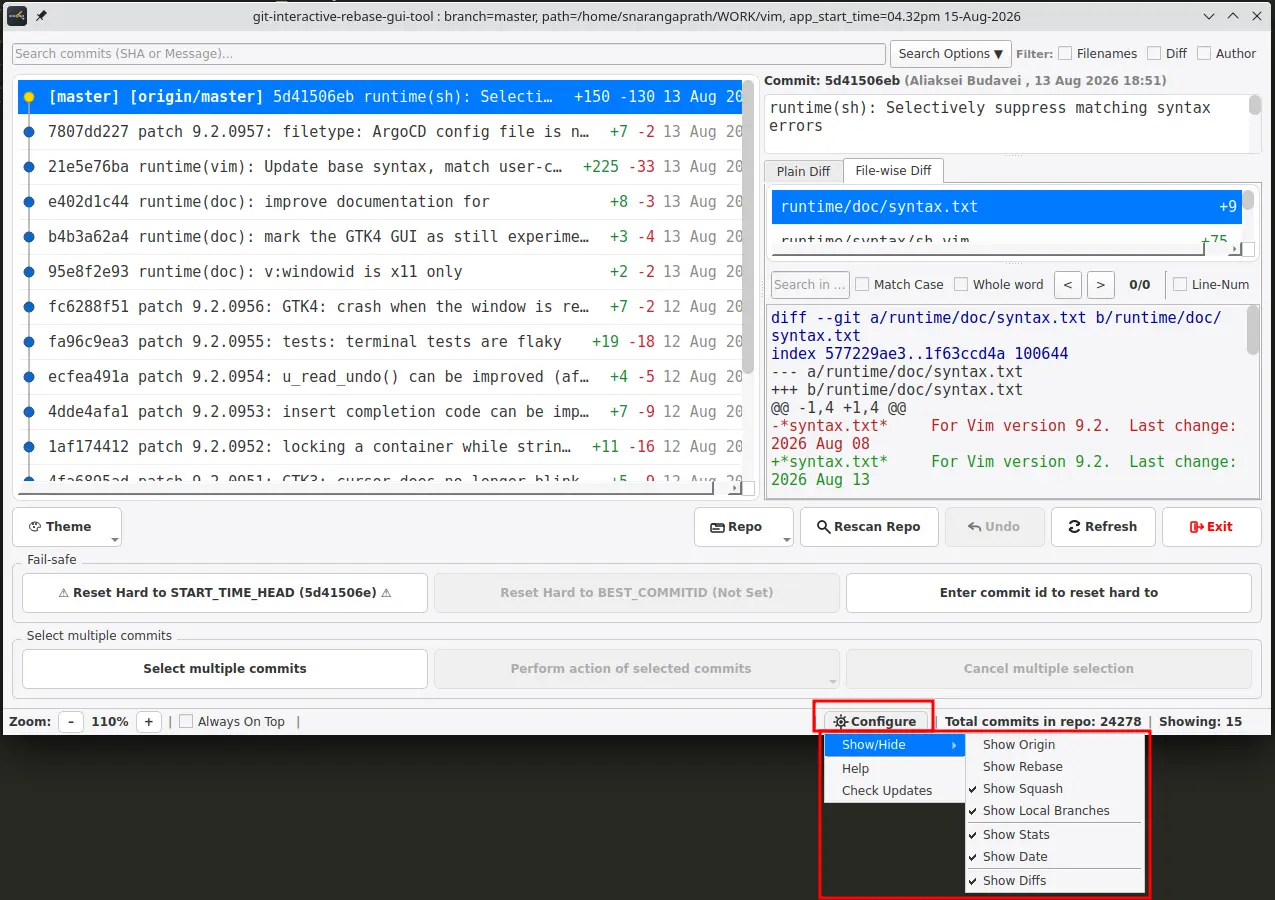
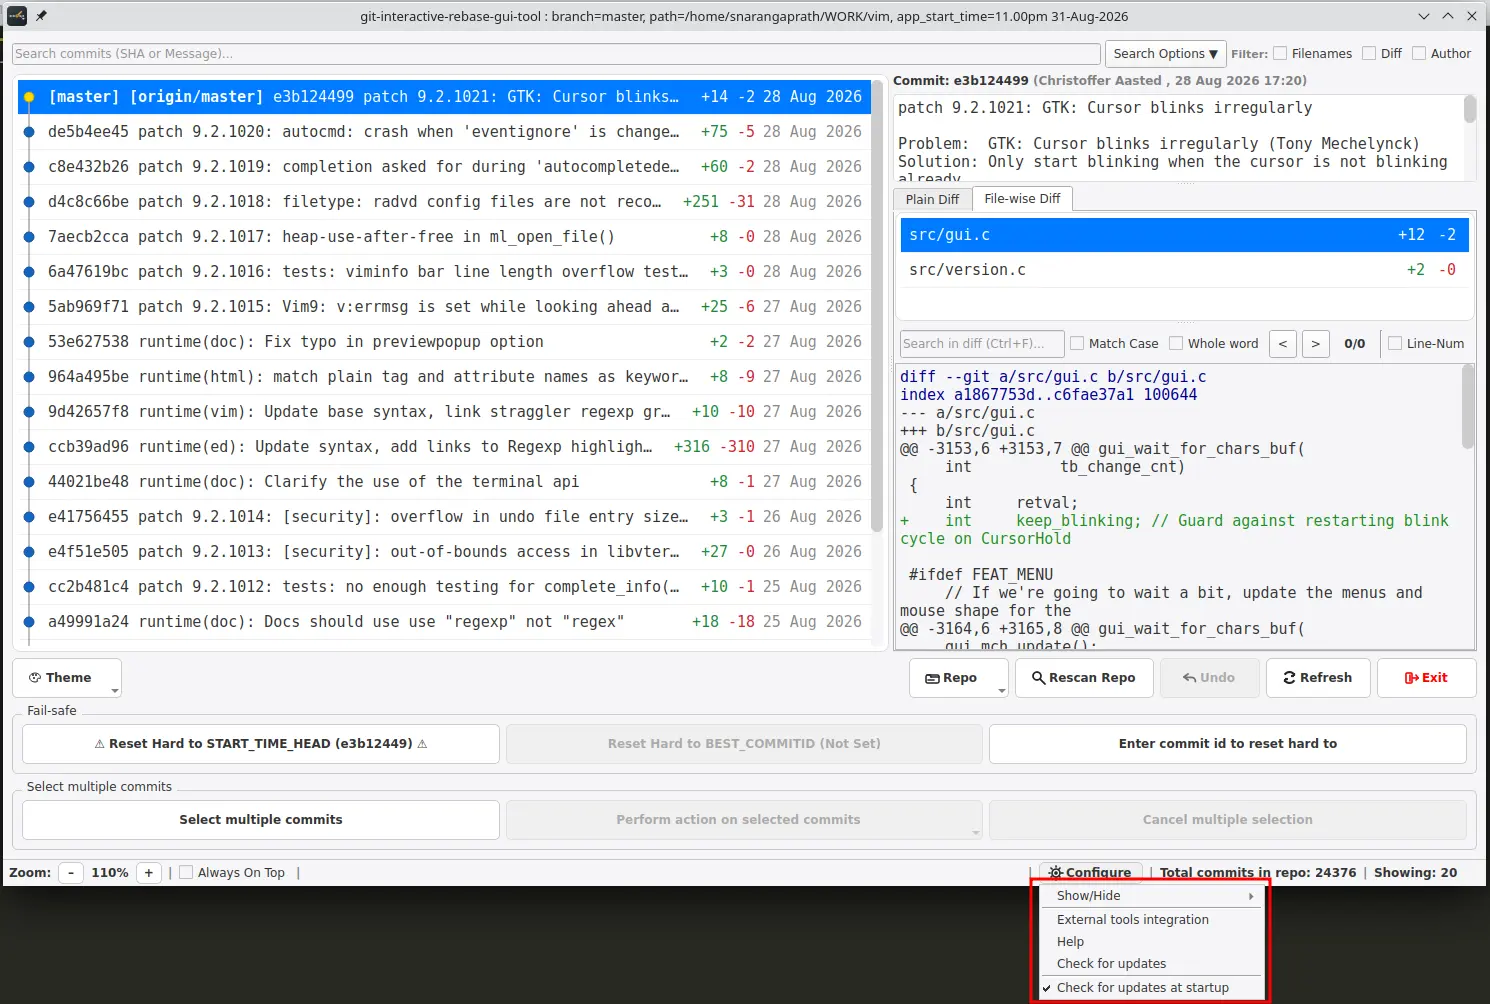
Update docs: startup check, restart shortcut, new screenshot sections
- Add Browse Tags to Repo Menu listing (§4)
- Add §43 Browse Tags, §44 External Tools Dialog
- Update §39 with startup update check and Ctrl+Shift+F5
- Add Ctrl+Shift+F5 to §42 Keyboard Shortcuts
- Update §40 Tag Commit with screenshot and Browse Tags link
- Update README with automatic startup check and restart shortcut docs

Changed region(s): [[0.0, 0.0, 1.0, 1.0], [0.9788, 0.0933, 1.0, 0.1556]]

diff --git a/docs/screenshots.md b/docs/screenshots.md
@@ -58,6 +58,8 @@ Visual documentation for the Git Interactive Rebase GUI Tool. Each section showc
 40. [Tag Commit](#40-tag-commit)
 41. [Blame a file](#41-blame-a-file)
 42. [Keyboard Shortcuts](#42-keyboard-shortcuts)
+43. [Browse Tags](#43-browse-tags)
+44. [External Tools Dialog](#44-external-tools-dialog)
 
 ---
 
@@ -200,6 +202,7 @@ The **Repo** button in the main window's toolbar groups the repository-wide tool
 - **Browse Log of a Commit** → Open a read-only history window for any commit SHA or ref, prompted with the number of commits to show (see [Browse Log of a Commit](#24-browse-log-of-a-commit))
 - **Browse Reflog** → Open a read-only window of the repository's HEAD reflog (see [Browse Reflog](#25-browse-reflog))
 - **Browse Stashes** → Open a read-only window of the repository's stash list (see [Browse Stashes](#26-browse-stashes))
+- **Browse Tags** → Open a read-only window listing all tags with their commit info (see [Browse Tags](#43-browse-tags))
 - **Open File at Commit…** → Browse and open a file at any commit, branch, or tag with the system default app. Enter a SHA/branch/tag, type or browse for a file, and open that version of the file (see [Open with System Default App](#102-file-wise-diff))
 - **Find Merge-base…** → Compute the merge-base between the current branch and another branch (see [Find Merge-base](#29-find-merge-base))
 
@@ -954,11 +957,23 @@ A brief **"Copied!"** notification appears to confirm the action.
 
 For a cloned installation, the update refuses to run if the local clone has uncommitted changes — commit or stash them and try again.
 
+#### Startup update check
+
+By default the tool automatically checks for updates in the background when it starts. If an update is available, an **Update(\<sha\>) available** label appears in the status bar next to the **Configure** button. Uncheck **Configure → Check for updates at startup** to disable this.
+
+When running from a cloned repository, press **Ctrl+Shift+F5** after updating to restart with the latest code.
+
 ---
 
 ## 40. Tag Commit
 
+**Screenshot:** `screenshots/tag-commit.webp`
+
+![Tag Commit](screenshots/tag-commit.webp)
+
 **Description:** Right-click a commit and select **Tag** to open the tagging dialog. Enter a tag name, optionally tick **Annotate** to create an annotated tag with a message, and click **Create Tag**. The new tag appears in the commit list when **Show Tags** is enabled (see [Configure Menu](#5-configure-menu)). Both lightweight and annotated tags are supported.
+
+Use **Browse Tags** (Repo menu) to see all tags in the repository (see [Browse Tags](#43-browse-tags)).
 
 ---
 
@@ -1000,8 +1015,42 @@ Keyboard shortcuts for faster navigation and workflow.
 | `Ctrl+Q` | Exit the application |
 | `Ctrl+Z` | Undo the last operation (disabled while editing text) |
 | `F5` | Refresh commit list |
+| `Ctrl+Shift+F5` | Restart with latest code (cloned repos only, when update detected) |
 
 **Notes:**
 
 - `Esc` behaves contextually and may close dialogs, clear filters, exit search, or exit multi-select mode depending on the active state.
 - `Ctrl+F` focuses the diff search bar, which is available in every diff view (see [Diff Search Bar](#9-diff-search-bar)).
+
+---
+
+## 43. Browse Tags
+
+**Screenshot:** `screenshots/browse-tags.webp`
+
+![Browse Tags](screenshots/browse-tags.webp)
+
+**Description:** Open **Browse Tags** from the **Repo** menu to view all tags in the repository. The window shows a table with columns:
+
+- **Tag** — Tag name
+- **Commit** — Short SHA of the tagged commit (with coloured dot)
+- **Subject** — Commit message summary
+- **Date** — Commit timestamp
+
+Right-click a tag to open its commit log or copy details. Double-click a tag to view the commit. The window supports search and filtering like other browse windows.
+
+---
+
+## 44. External Tools Dialog
+
+**Screenshot:** `screenshots/external-tools-dialog.webp`
+
+![External Tools Dialog](screenshots/external-tools-dialog.webp)
+
+**Description:** Open **External tools integration** from the **Configure** menu to configure external diff tool integration. The dialog is organized with a **Diff tool** group box containing three modes:
+
+- **Not configured** — External difftool integration is disabled.
+- **Use Git configured difftool** — Uses the difftool configured in your Git settings (`diff.tool`). Shows the detected tool name and status.
+- **Use custom command** — Specify a custom diff tool command and arguments (e.g. `kdiff3 {file1} {file2}`).
+
+Click **Refresh** to re-detect the Git difftool, **Save** to persist the choice, or **Cancel** to dismiss. The preference is stored in QSettings and remembered across sessions.

diff --git a/README.md b/README.md
@@ -262,6 +262,16 @@ This project is actively under development, with new features and improvements a
 2. If a newer version is available, click **Update Now** — a progress bar runs while the tool updates itself, then reports success or failure.
 3. Restart the tool to apply the update.
 
+#### Automatic startup check
+
+By default, the tool checks for updates in the background when it starts. If an update is available, an **Update(\<sha\>) available** label appears in the status bar next to the **Configure** button. Click it or go to **Configure → Check for updates** to apply.
+
+To disable this, uncheck **Configure → Check for updates at startup**. The preference is remembered across sessions.
+
+#### Quick restart shortcut
+
+When running from a cloned repository, press **Ctrl+Shift+F5** after updating to restart the tool with the latest code — no manual restart needed.
+
 The update can run while the app is open; only the files on disk are changed, and the running session keeps working on the old version until you restart.
 
 If you'd rather update later, the same dialog offers **Copy to clipboard** with the command to run manually. The app figures out how to update itself depending on how it was installed:
